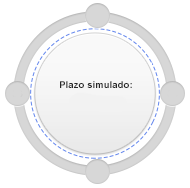
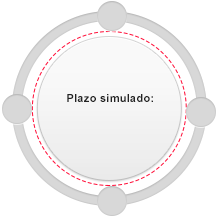
integracion de simulador

diff --git a/widgets/max/w_15/index.html b/widgets/max/w_15/index.html
@@ -98,21 +98,21 @@
 							<p>Plazo m&aacute;ximo autorizado:</p>
 							<p>36 meses</p>
 							<div style="" id="plazoAuto">
-								<div id="plazoTxt"><span id="numPlazo">9</span> meses</div>
+								<div id="plazoTxt" style="top: 104px;"><span id="numPlazo">9</span> meses</div>
 
-								<div id="btn_plazoSim1" class="btnPlazoAuto" style="top:78px;left:157px">
+								<div id="btn_plazoSim1" class="btnPlazoAuto" style="top: 95px;left: 172px;">
 									<span>18</span>
 								</div>
 								<div id="btn_plazoSim2" class="btnPlazoAuto" style="display:block;left:82px;">
 									<span>9</span>
 								</div>
-								<div id="btn_plazoSim3" class="btnPlazoAuto" style="left:2px;top:77px;">
+								<div id="btn_plazoSim3" class="btnPlazoAuto" style="left: -14px;top: 92px;">
 									<span>48</span>
 								</div>
-								<div id="btn_plazoSim4" class="btnPlazoAuto" style="top:156px;left:82px">
+								<div id="btn_plazoSim4" class="btnPlazoAuto" style="top: 184px;left:82px">
 									<span>32</span>
 								</div>
-								<img src="images/PlazoSimulado.png" alt="">
+								<img src="images/PlazoSimulado.png" style="margin-left: -15px;margin-top: -1px;" alt="">
 								
 							</div>
 						</div>
